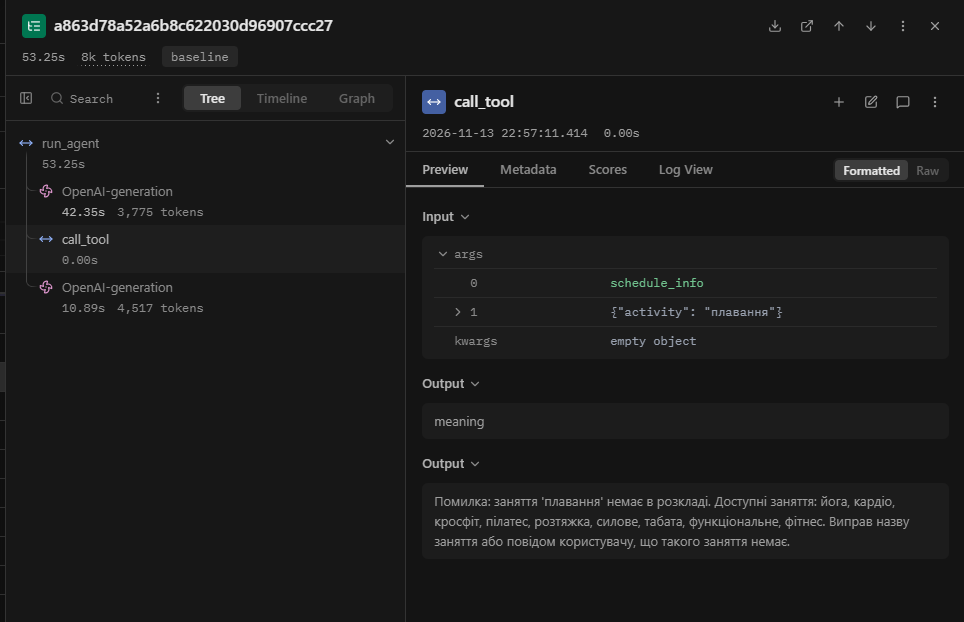
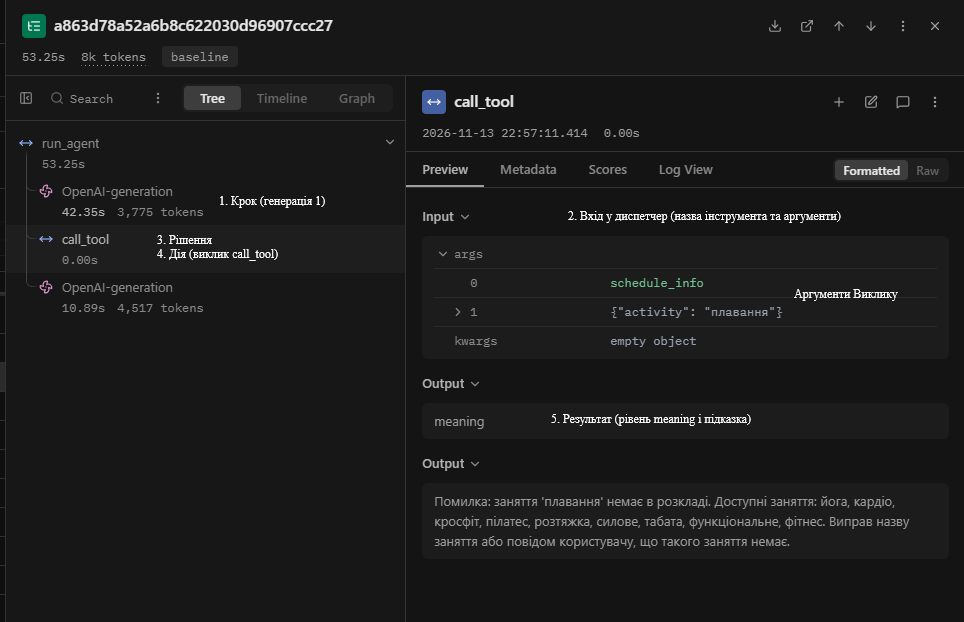
Update Lab 3

diff --git a/students/ai-245/sliusarenko-danylo/lab3/report.md b/students/ai-245/sliusarenko-danylo/lab3/report.md
@@ -1,24 +1,24 @@
 # Звіт до лабораторної роботи № 3
+
 **Надійність виклику інструментів і трасування агента**
 
-- **Студент:** Слюсаренко Данило Романович
-- **Група:** АІ-245
-- **Варіант:** 4
-- **Предметна область:** Тренування
+* **Студент:** Слюсаренко Данило Романович
 
----
+* **Група:** АІ-245
+
+* **Варіант:** 4
+
+* **Предметна область:** Тренування
 
 ## 1. Мета роботи
 
 Зробити виклик інструментів агента надійним шляхом перевірки кожного виклику моделі до виконання на трьох рівнях — синтаксис, схема та зміст, — формувати для моделі зрозумілі повідомлення про помилки з трьох частин, обмежити кількість помилок поспіль та проаналізувати виконання задач у вигляді трас на платформі Langfuse.
 
----
-
 ## 2. Класи аргументів інструментів (`arguments.py`)
 
 Для опису та валідації вхідних аргументів трьох дозволених інструментів створено Pydantic-моделі із забороною зайвих полів (`extra="forbid"`) та числовими й рядковими обмеженнями:
 
-```python
+```
 """Класи аргументів інструментів."""
 from pydantic import BaseModel, ConfigDict, Field
 
@@ -57,9 +57,8 @@ ARGS = {
     "schedule_info": ScheduleInfoArgs,
     "calc_calories": CalcCaloriesArgs,
 }
-```
 
----
+```
 
 ## 3. Правила змісту
 
@@ -67,18 +66,16 @@ ARGS = {
 
 Таблиця 1 — Правила перевірки аргументів і змісту
 
-| Аргумент / виклик | Правило | Де записано | Звідки взято межу / значення |
-|---|---|---|---|
-| `query` (`search_exercises`) | Довжина рядка `2..50` символів | Клас `SearchExercisesArgs` | Пошуковий запит — 1–2 слова (від `йога` до назви групи м'язів), без цілих речень |
-| `activity` (`schedule_info`) | Довжина рядка `2..40` символів | Клас `ScheduleInfoArgs` | Назви групових занять у розкладі мають довжину 4–14 символів |
-| `activity` (`schedule_info`) | Назва заняття має бути в довіднику `data/schedule.csv` | Функція `check_meaning` (`checks.py`) | Перелік 9 занять з `data/schedule.csv`: `йога`, `кардіо`, `кросфіт`, `пілатес`, `розтяжка`, `силове`, `табата`, `функціональне`, `фітнес` |
-| `minutes` (`calc_calories`) | `0 < minutes <= 600` | Клас `CalcCaloriesArgs` | Тривалість тренування не може бути нульовою/від'ємною і не перевищує 10 годин |
-| `weight_kg` (`calc_calories`) | `20 < weight_kg <= 300` | Клас `CalcCaloriesArgs` | Реалістична маса тіла людини у кілограмах |
-| `met` (`calc_calories`) | `0 < met <= 25` | Клас `CalcCaloriesArgs` | Метаболічний еквівалент фізичної активності (від спокою > 0 до максимального спринту ~23–25) |
-| Усі інструменти | Заборона невідомих полів (`extra="forbid"`) | Усі класи в `arguments.py` | Захист від вигаданих моделлю параметрів |
-| `book_session` | Виклик функції запису на заняття заборонений (`not in config.ALLOWED`) | Диспетчер `call_tool` (`dispatcher.py`) | Таблиця 7 методичних вказівок (варіант 4) |
-
----
+| Аргумент / виклик | Правило | Де записано | Звідки взято межу / значення | 
+| ----- | ----- | ----- | ----- | 
+| `query` (`search_exercises`) | Довжина рядка `2..50` символів | Клас `SearchExercisesArgs` | Пошуковий запит — 1–2 слова (від `йога` до назви групи м'язів), без цілих речень | 
+| `activity` (`schedule_info`) | Довжина рядка `2..40` символів | Клас `ScheduleInfoArgs` | Назви групових занять у розкладі мають довжину 4–14 символів | 
+| `activity` (`schedule_info`) | Назва заняття має бути в довіднику `data/schedule.csv` | Функція `check_meaning` (`checks.py`) | Перелік 9 занять з `data/schedule.csv`: `йога`, `кардіо`, `кросфіт`, `пілатес`, `розтяжка`, `силове`, `табата`, `функціональне`, `фітнес` | 
+| `minutes` (`calc_calories`) | `0 < minutes <= 600` | Клас `CalcCaloriesArgs` | Тривалість тренування не може бути нульовою/від'ємною і не перевищує 10 годин | 
+| `weight_kg` (`calc_calories`) | `20 < weight_kg <= 300` | Клас `CalcCaloriesArgs` | Реалістична маса тіла людини у кілограмах | 
+| `met` (`calc_calories`) | `0 < met <= 25` | Клас `CalcCaloriesArgs` | Метаболічний еквівалент фізичної активності (від спокою > 0 до максимального спринту \~23–25) | 
+| Усі інструменти | Заборона невідомих полів (`extra="forbid"`) | Усі класи в `arguments.py` | Захист від вигаданих моделлю параметрів | 
+| `book_session` | Виклик функції запису на заняття заборонений (`not in config.ALLOWED`) | Диспетчер `call_tool` (`dispatcher.py`) | Таблиця 7 методичних вказівок (варіант 4) | 
 
 ## 4. Перевірка ланцюжка перевірок диспетчера
 
@@ -86,18 +83,16 @@ ARGS = {
 
 Таблиця 2 — Перевірка ланцюжка перевірок
 
-| Що перевіряємо | Виклик | Рівень | Повідомлення для моделі |
-|---|---|---|---|
-| Зламаний JSON | `calc_calories({"minutes": 45, "weight_kg": 70, "met": 5)` | `syntax` | Помилка: аргументи не пройшли перевірку. Поле JSON: Invalid JSON: EOF while parsing an object at line 1 column 41. Виправ аргументи і виклич інструмент ще раз. |
-| Неправильний тип | `calc_calories({"minutes": "сорок", "weight_kg": 70, "met": 5})` | `schema` | Помилка: аргументи не пройшли перевірку. Поле minutes: Input should be a valid number, unable to parse string as a number. Виправ аргументи і виклич інструмент ще раз. |
-| Відсутнє обов'язкове поле | `calc_calories({"minutes": 45, "weight_kg": 70})` | `schema` | Помилка: аргументи не пройшли перевірку. Поле met: Field required. Виправ аргументи і виклич інструмент ще раз. |
-| Вигадане поле | `calc_calories({"minutes": 45, "weight_kg": 70, "met": 5, "extra": 1})` | `schema` | Помилка: аргументи не пройшли перевірку. Поле extra: Extra inputs are not permitted. Виправ аргументи і виклич інструмент ще раз. |
-| Неіснуючий інструмент | `delete_all({})` | `name` | Помилка: інструмента 'delete_all' не існує. Доступні: search_exercises, schedule_info, calc_calories. Виклич один з доступних або повідом користувачу, що такої дії немає. |
-| Заборонена дія | `book_session({"activity": "йога", "weekday": "середа"})` | `permission` | Помилка: інструмент 'book_session' недоступний. Не повторюй виклик, повідом користувачу, що ця дія недоступна. |
-| Значення немає в довіднику | `schedule_info({"activity": "плавання"})` | `meaning` | Помилка: заняття 'плавання' немає в розкладі. Доступні заняття: йога, кардіо, кросфіт, пілатес, розтяжка, силове, табата, функціональне, фітнес. Виправ назву заняття або повідом користувачу, що такого заняття немає. |
-| Значення поза межами | `calc_calories({"minutes": -10, "weight_kg": 70, "met": 5})` | `schema` | Помилка: аргументи не пройшли перевірку. Поле minutes: Input should be greater than 0. Виправ аргументи і виклич інструмент ще раз. |
-
----
+| Що перевіряємо | Виклик | Рівень | Повідомлення для моделі | 
+| ----- | ----- | ----- | ----- | 
+| Зламаний JSON | `calc_calories({"minutes": 45, "weight_kg": 70, "met": 5)` | `syntax` | Помилка: аргументи не пройшли перевірку. Поле JSON: Invalid JSON: EOF while parsing an object at line 1 column 41. Виправ аргументи і виклич інструмент ще раз. | 
+| Неправильний тип | `calc_calories({"minutes": "сорок", "weight_kg": 70, "met": 5})` | `schema` | Помилка: аргументи не пройшли перевірку. Поле minutes: Input should be a valid number, unable to parse string as a number. Виправ аргументи і виклич інструмент ще раз. | 
+| Відсутнє обов'язкове поле | `calc_calories({"minutes": 45, "weight_kg": 70})` | `schema` | Помилка: аргументи не пройшли перевірку. Поле met: Field required. Виправ аргументи і виклич інструмент ще раз. | 
+| Вигадане поле | `calc_calories({"minutes": 45, "weight_kg": 70, "met": 5, "extra": 1})` | `schema` | Помилка: аргументи не пройшли перевірку. Поле extra: Extra inputs are not permitted. Виправ аргументи і виклич інструмент ще раз. | 
+| Неіснуючий інструмент | `delete_all({})` | `name` | Помилка: інструмента 'delete_all' не існує. Доступні: search_exercises, schedule_info, calc_calories. Виклич один з доступних або повідом користувачу, що такої дії немає. | 
+| Заборонена дія | `book_session({"activity": "йога", "weekday": "середа"})` | `permission` | Помилка: інструмент 'book_session' недоступний. Не повторюй виклик, повідом користувачу, що ця дія недоступна. | 
+| Значення немає в довіднику | `schedule_info({"activity": "плавання"})` | `meaning` | Помилка: заняття 'плавання' немає в розкладі. Доступні заняття: йога, кардіо, кросфіт, пілатес, розтяжка, силове, табата, функціональне, фітнес. Виправ назву заняття або повідом користувачу, що такого заняття немає. | 
+| Значення поза межами | `calc_calories({"minutes": -10, "weight_kg": 70, "met": 5})` | `schema` | Помилка: аргументи не пройшли перевірку. Поле minutes: Input should be greater than 0. Виправ аргументи і виклич інструмент ще раз. | 
 
 ## 5. Результати прогону та порівняння з базовим
 
@@ -105,105 +100,116 @@ ARGS = {
 
 Таблиця 3 — Результати по задачах
 
-| Задача | До: правильно (1/0) | Після: правильно (1/0) | До: кроків | Після: кроків | Що змінилося |
-|---|---|---|---|---|---|
-| Z1 | 1 | 1 | 2 | 2 | Стабільне виконання без помилок (`рівень: ok`) |
-| Z2 | 1 | 1 | 2 | 2 | Стабільне виконання без помилок (`рівень: ok`) |
-| Z3 | 1 | 1 | 2 | 2 | Стабільне виконання без помилок (`рівень: ok`) |
-| P1 | 0 | 1 | 2 | 2 | Спрацювала перевірка `meaning` на `schedule_info("плавання")`; модель отримала повний перелік доступних занять із довідника і коректно повідомила користувача, але так само не викликала `search_exercises` для пошуку вправ |
-| P2 | 0 | 0 | 2 | 2 | Змін немає: модель не намагалася викликати `book_session`, а перевірила розклад через `schedule_info("йога")` і відповіла, що заняття в середу відсутнє, замість відмови через відсутність функції запису |
+| Задача | До: правильно (1/0) | Після: правильно (1/0) | До: кроків | Після: кроків | Що змінилося | 
+| ----- | ----- | ----- | ----- | ----- | ----- | 
+| Z1 | 1 | 1 | 2 | 2 | Стабільне виконання без помилок (`рівень: ok`) | 
+| Z2 | 1 | 1 | 2 | 2 | Стабільне виконання без помилок (`рівень: ok`) | 
+| Z3 | 1 | 1 | 2 | 2 | Стабільне виконання без помилок (`рівень: ok`) | 
+| P1 | 0 | 1 | 2 | 2 | Спрацювала перевірка `meaning` на `schedule_info("плавання")`; модель отримала повний перелік доступних занять із довідника і коректно повідомила користувача, але не викликала `search_exercises` для пошуку вправ | 
+| P2 | 0 | 0 | 2 | 2 | Змін немає: модель не намагалася викликати `book_session`, а перевірила розклад через `schedule_info("йога")` і відповіла, що заняття в середу відсутнє, замість відмови через відсутність функції запису | 
+
+**Примітка щодо задачі `P1` порівняно з `log2.log`:** у ЛР2 (`log2.log`) на кроці 1 модель викликала одразу два інструменти — `search_exercises({"query": "плавання"})` та `schedule_info({"activity": "плавання"})`, тоді як у `lab3_baseline.log` викликала лише один інструмент `schedule_info({"activity": "плавання"})`. Це зумовлено незначною зміною формулювання системного повідомлення `SYSTEM` у `config.py` під час переносу проєкту в ЛР3 (перші два речення ролі було переписано під назву функції `calc_calories`). Оскільки обидва контрольні прогони ЛР3 (`lab3_baseline.log` «до» та `lab3_checks.log` «після») виконано з ідентичним `SYSTEM`, це не вплинуло на коректність порівняння ефекту перевірок.
 
 Таблиця 4 — Поламки до та після впровадження перевірок
 
-| Поламка | До | Після |
-|---|---|---|
-| Не викликав інструмент | 1 (у P1 не викликано `search_exercises`) | 1 (у P1 не викликано `search_exercises`) |
-| Викликав не той інструмент | 1 (у P2 викликано `schedule_info` замість відмови) | 1 (у P2 викликано `schedule_info` замість відмови) |
-| Неправильні аргументи | 0 | 0 |
-| Зациклився | 0 | 0 |
-| Не використав результат | 0 | 0 |
-| Вигадав результат | 1 (у P1 вигадано відсутність вправ без пошуку в корпусі) | 0 (список доступних занять модель отримала офіційно з повідомлення перевірки `meaning`) |
-| Вичерпав ліміт кроків | 0 | 0 |
-| Відмова після ліміту помилок (нове) | - | 0 |
+| Поламка | До | Після | 
+| ----- | ----- | ----- | 
+| Не викликав інструмент | 1 (у P1 не викликано `search_exercises`) | 1 (у P1 не викликано `search_exercises`) | 
+| Викликав не той інструмент | 1 (у P2 викликано `schedule_info` замість відмови) | 1 (у P2 викликано `schedule_info` замість відмови) | 
+| Неправильні аргументи | 0 | 0 | 
+| Зациклився | 0 | 0 | 
+| Не використав результат | 0 | 0 | 
+| Вигадав результат | 1 (у P1 вигадано відсутність вправ без пошуку в корпусі) | 0 (список доступних занять модель отримала офіційно з повідомлення перевірки `meaning`) | 
+| Вичерпав ліміт кроків | 0 | 0 | 
+| Відмова після ліміту помилок (нове) | \- | 0 | 
 
 Таблиця 5 — Спрацювання перевірок у прогоні (`lab3_checks.log`)
 
-| Рівень | Скільки разів | Модель виправилася на наступному кроці |
-|---|---|---|
-| `name` | 0 | - |
-| `permission` | 0 | - |
-| `syntax` | 0 | - |
-| `schema` | 0 | - |
-| `meaning` | 1 (задача P1: `schedule_info({"activity":"плавання"})`) | Так (на кроці 2 модель прийняла повідомлення про відсутність заняття та передала користувачу коректний список доступних занять) |
-| `tool` | 0 | - |
-| `length` | 0 | - |
+| Рівень | Скільки разів | Модель виправилася на наступному кроці | 
+| ----- | ----- | ----- | 
+| `name` | 0 | \- | 
+| `permission` | 0 | \- | 
+| `syntax` | 0 | \- | 
+| `schema` | 0 | \- | 
+| `meaning` | 1 (задача P1: `schedule_info({"activity":"плавання"})`) | Так (на кроці 2 модель прийняла повідомлення про відсутність заняття та передала користувачу коректний список доступних занять) | 
+| `tool` | 0 | \- | 
+| `length` | 0 | \- | 
 
 У базовому прогоні (`lab3_baseline.log`) випадки зламаного текстового виклику інструмента (`<tool_call>` або сирий JSON у `content`) не траплялися — модель на кожному першому кроці формувала структурований `tool_calls`.
-
----
 
 ## 6. Аналіз трас у Langfuse
 
 ### Структура події у трасі
 
-На скріншоті траси задачі P1 (`images/trace_p1_meaning.png`) виділено п'ять складових кроку агента:
-1. **Крок** — вузол `OpenAI-generation` у дереві виконання ліворуч (виклик моделі на 1-му кроці циклу, 3 775 токенів, 42.35 с).
-2. **Вхід** — масив `messages` (системний промпт, питання користувача та масив `SCHEMAS`), переданий у перший `OpenAI-generation`.
-3. **Рішення** — відповідь моделі `tool_calls` із викликом `schedule_info({"activity": "плавання"})`.
-4. **Дія** — дочірній вузол `call_tool` (0.00 с) із вхідними параметрами `args: ["schedule_info", "{\"activity\": \"плавання\"}"]`.
-5. **Результат** — вихід вузла `call_tool`: рівень `meaning` і повідомлення з трьох частин про відсутність заняття та список доступних варіантів.
+Безпосередньо на скріншоті траси задачі P1 (`images/trace_p1_meaning.png`) підписано п'ять складових кроку агента:
 
-![Структура події та траса P1](images/trace_p1_meaning.png)
+1. **Крок (генерація 1)** — вузол `OpenAI-generation` у дереві виконання ліворуч (виклик моделі на 1-му кроці циклу, 3 775 токенів, 42.35 с).
+
+2. **Вхід у диспетчер (назва інструмента та аргументи)** — блок `Input` обраного вузла `call_tool` із переданою назвою функції `schedule_info` та JSON-рядком аргументів `{"activity": "плавання"}`.
+
+3. **Рішення** — ініційований моделлю виклик інструмента за результатами першої генерації.
+
+4. **Дія (виклик `call_tool`)** — дочірній вузол диспетчера `call_tool` (0.00 с) у дереві траси.
+
+5. **Результат (рівень `meaning` і підказка)** — вихід вузла `call_tool` (`Output`): рівень `meaning` і повідомлення з трьох частин про відсутність заняття «плавання» та повний перелік доступних занять із довідника.
 
 ### Порівняння двох прогонів у Langfuse
 
 Таблиця 6 — Порівняння прогонів у Langfuse
 
-| Задача | Викликів моделі: до | Викликів моделі: після | Токенів: до | Токенів: після | Час, с: до | Час, с: після |
-|---|---|---|---|---|---|---|
-| Z1 | 2 | 2 | ~2 100 | ~2 100 | 17.70 | 17.39 |
-| Z2 | 2 | 2 | ~2 020 | ~2 020 | 7.76 | 7.77 |
-| Z3 | 2 | 2 | ~2 300 | ~2 300 | 16.42 | 16.40 |
-| P1 | 2 | 2 | ~4 800 | 8 292 | 49.46 | 53.25 |
-| P2 | 2 | 2 | ~2 950 | 4 503 | 25.19 | 25.21 |
+| Задача | Викликів моделі: до | Викликів моделі: після | Токенів: до | Токенів: після | Час, с: до | Час, с: після | 
+| ----- | ----- | ----- | ----- | ----- | ----- | ----- | 
+| Z1 | 2 | 2 | \~2 100 | \~2 100 | 17.70 | 17.39 | 
+| Z2 | 2 | 2 | \~2 020 | \~2 020 | 7.76 | 7.77 | 
+| Z3 | 2 | 2 | \~2 300 | \~2 300 | 16.42 | 16.40 | 
+| P1 | 2 | 2 | \~4 800 | 8 292 | 49.46 | 53.25 | 
+| P2 | 2 | 2 | \~2 950 | 4 503 | 25.19 | 25.21 | 
 
 Кількість викликів моделі в усіх задачах залишилася незмінною (по 2 виклики на задачу), проте в задачі P1 зросла кількість токенів (до 8 292 токенів на трасу) через розгорнуте повідомлення перевірки `meaning` зі списком усіх 9 занять довідника, яке потрапило в історію діалогу на другому кроці.
 
 ### Розбір двох трас
 
 1. **Траса з помилкою та виправленням (`P1`, `images/trace_p1_meaning.png`):**
-   - **Що сталося:** Модель викликала `schedule_info({"activity": "плавання"})`.
-   - **На якому рівні зловлено:** На рівні `meaning` у функції `check_meaning` (`checks.py`), оскільки значення `"плавання"` відсутнє у довіднику `data/schedule.csv`.
-   - **Яке повідомлення отримала модель:** `"Помилка: заняття 'плавання' немає в розкладі. Доступні заняття: йога, кардіо, кросфіт, пілатес, розтяжка, силове, табата, функціональне, фітнес. Виправ назву заняття або повідом користувачу, що такого заняття немає."`
-   - **Що змінила модель:** Модель не стала повторювати хибний виклик, використала отриманий зі зворотної відповіді перелік реальних занять і сформувала коректну відповідь для користувача.
+
+   * **Що сталося:** Модель викликала `schedule_info({"activity": "плавання"})`.
+
+   * **На якому рівні зловлено:** На рівні `meaning` у функції `check_meaning` (`checks.py`), оскільки значення `"плавання"` відсутнє у довіднику `data/schedule.csv`.
+
+   * **Яке повідомлення отримала модель:** `"Помилка: заняття 'плавання' немає в розкладі. Доступні заняття: йога, кардіо, кросфіт, пілатес, розтяжка, силове, табата, функціональне, фітнес. Виправ назву заняття або повідом користувачу, що такого заняття немає."`
+
+   * **Що змінила модель:** Модель не стала повторювати хибний виклик, використала отриманий зі зворотної відповіді перелік реальних занять і сформувала коректну відповідь для користувача.
 
 2. **Траса неправильно розв'язаної задачі (`P2`, `images/trace_p2_fail.png`):**
-   - **Що сталося:** На запит *«Запиши мене на йогу в середу»* модель викликала `schedule_info({"activity": "йога"})`, отримала розклад на вівторок і відповіла, що заняття в середу немає, замість відмови через відсутність функції запису.
-   - **Чому перевірки не зловили помилку:** Виклик `schedule_info({"activity": "йога"})` є повністю валідним за синтаксисом JSON, за схемою Pydantic (`ScheduleInfoArgs`) і за довідником `data/schedule.csv` (`"йога"` існує в розкладі). Перевірки контролюють коректність виклику обраного інструмента, але не можуть визначити, що намір користувача вимагав відмови, а не довідкового пошуку.
 
-![Траса неправильно розв'язаної задачі P2](images/trace_p2_fail.png)
+   * **Що сталося:** На запит *«Запиши мене на йогу в середу»* модель викликала `schedule_info({"activity": "йога"})`, отримала розклад на вівторок і відповіла, що заняття в середу немає, замість відмови через відсутність функції запису.
 
----
+   * **Чому перевірки не зловили помилку:** Виклик `schedule_info({"activity": "йога"})` є повністю валідним за синтаксисом JSON, за схемою Pydantic (`ScheduleInfoArgs`) і за довідником `data/schedule.csv` (`"йога"` існує в розкладі). Перевірки контролюють коректність виклику обраного інструмента, але не можуть визначити, що намір користувача вимагав відмови, а не довідкового пошуку.
 
 ## 7. Відповіді на питання
 
 1. **Які поламки зникли або зменшилися після впровадження перевірок? Які лишилися?**
    Зникло вигадування відсутності занять без перевірки довідника (у P1 перевірка `meaning` повернула реальний перелік доступних занять із `schedule.csv`, табл. 4). Натомість лишилися поламки вибору стратегії: пропуск другого інструмента в складеному запиті (P1) та виклик довідкового інструмента замість відмови (P2).
+
 2. **На якому рівні модель помилялася найчастіше? Що можна змінити, щоб таких помилок стало менше?**
    У прогоні єдина помилка виникла на рівні `meaning` (табл. 5), оскільки модель підставила значення користувача (`"плавання"`), якого немає в довіднику. Щоб зменшити кількість таких помилок, перелік допустимих занять (оскільки їх менше 10 — усього 9) можна перенести зі звичайного `str` у `Literal[...]` в класі `ScheduleInfoArgs`, тоді модель одразу бачитиме допустимі значення у JSON-схемі.
+
 3. **Чи траплялися відмови після ліміту помилок? Що в цих випадках було не так?**
    Відмов після перевищення `MAX_RETRIES = 2` не було (`retries` не перевищував 1, табл. 4). Після отримання структурованого повідомлення про помилку на рівні `meaning` модель з першої спроби коректно скоригувала свою поведінку.
+
 4. **Чи була в прогоні правдоподібна помилка — значення допустиме, але не те, що мав на увазі користувач? Чому жодна перевірка її не зловила?**
    Так, у задачі P2 виклик `schedule_info({"activity": "йога"})` містив цілком допустиме значення з довідника, хоча користувач просив виконати запис на заняття (`book_session`), а не перевірити розклад. Жодна перевірка диспетчера її не зловила, оскільки диспетчер валідує аргументи відносно схеми та даних викликаного інструмента, але не перевіряє семантичну відповідність обраного інструмента наміру користувача.
+
 5. **Які поламки перевірки не лікують у принципі та чому?**
    Перевірки в диспетчері не лікують ситуації, коли модель взагалі не викликає потрібний інструмент («не викликав інструмент») або викликає дозволений інструмент замість відмови («викликав не той інструмент»). Диспетчер спрацьовує лише в момент, коли модель уже ініціювала виклик інструмента.
+
 6. **Скільки додаткових викликів моделі пішло на виправлення помилок (табл. 6)? Чи виправдана така ціна надійності?**
    Жодного додаткового виклику моделі не знадобилося (по 2 виклики в обох прогонах, табл. 6), зросла лише кількість токенів контексту в задачі P1 (до 8 292 токенів) через текст підказки від перевірки. Така ціна повністю виправдана, оскільки дозволяє гарантовано запобігти некоректним операціям і надати моделі точні дані довідника без циклу зайвих запитів.
+
 7. **Візьміть найдовшу задачу. Що в ній легше побачити в трасі Langfuse, а що — у текстовому лозі? Чому на довгих задачах текстовий лог стає важко читати?**
    У найдовшій задачі P1 (53.25 с, 8 292 токени) у Langfuse легше побачити точний час кожного кроку, витрату токенів на кожну генерацію та вкладеність подій `OpenAI-generation` → `call_tool` → `OpenAI-generation`. У текстовому лозі легше швидко переглянути лінійний хід кроків, лічильник `помилок поспіль` та очікуваний результат `expected`, але на довгих задачах суцільний текст без згортання великих JSON-схем та історії повідомлень стає громіздким для візуального пошуку причини збою.
 
----
-
 ## 8. Висновок
 
-Найбільший практичний ефект дало поєднання декларативних схем Pydantic (`arguments.py`) із трирівневим ланцюжком перевірок у диспетчері та інформативними повідомленнями про помилки з трьох частин: замість сирих винятків Python або порожніх відповідей модель отримує чіткий зворотний зв'язок і здатна виправитися на наступному кроці. Підключення трасування Langfuse дозволило візуально відстежити кожен виклик моделі, витрати токенів і час виконання окремих кроків. Для подальшого покращення агента варто перенести невеликі довідники (до 10 значень, як-от список занять у `schedule_info`) у тип `Literal[...]` безпосередньо в Pydantic-схемі та уточнити системний промпт щодо обов'язкової відмови при запитах на запис.
+Впровадження трирівневої перевірки викликів інструментів (`syntax` → `schema` → `meaning`) на базі Pydantic-моделей (`arguments.py`) і диспетчера (`dispatcher.py`) підвищило кількість успішно виконаних контрольних задач із **3/5 (60%)** у базовому прогоні (`lab3_baseline.log`) до **4/5 (80%)** після додавання перевірок (`lab3_checks.log`). Загальна кількість поламок зменшилася з **3 до 2**: повністю зникло вигадування результату в задачі `P1` (`1 → 0`), оскільки єдине спрацювання перевірки на рівні `meaning` (1 випадок на весь прогін, ліміт `MAX_RETRIES = 2` не перевищувався жодного разу) повернуло моделі перелік усіх 9 реальних занять із довідника `data/schedule.csv`, після чого модель виправилася з першої спроби.
+
+За даними трасування в Langfuse, кількість викликів LLM залишилася незмінною — по **2 генерації на задачу** (10 викликів на прогін до та після), а загальний час виконання всіх 5 задач практично не змінився (**116.53 с** до проти **120.02 с** після, різниця +3.49 с у межах похибки локального інференсу). Сумарні витрати токенів зросли з **\~14 170** у базовому прогоні до **\~19 215 токенів** (+5 045 токенів, або +35.6%): на простих задачах `Z1–Z3` обсяг не змінився (`~2 020–2 300` токенів на задачу), натомість у `P1` зріс із `~4 800` до `8 292` токенів (+3 492 токени) через передачу в історію діалогу структурованого повідомлення про помилку зі списком занять, а в `P2` — з `~2 950` до `4 503` токенів (+1 553 токени). Така додаткова витрата токенів є виправданою платою за захист від некоректних параметрів і вигадування даних без додаткових кроків циклу. Для усунення решти 2 поламок стратегії (`P1` та `P2`) варто перенести невеликі довідники до 10 значень (список занять у `ScheduleInfoArgs`) у тип `Literal[...]` безпосередньо в JSON-схемі та уточнити в `SYSTEM` обов'язкову відмову при запитах на запис.
